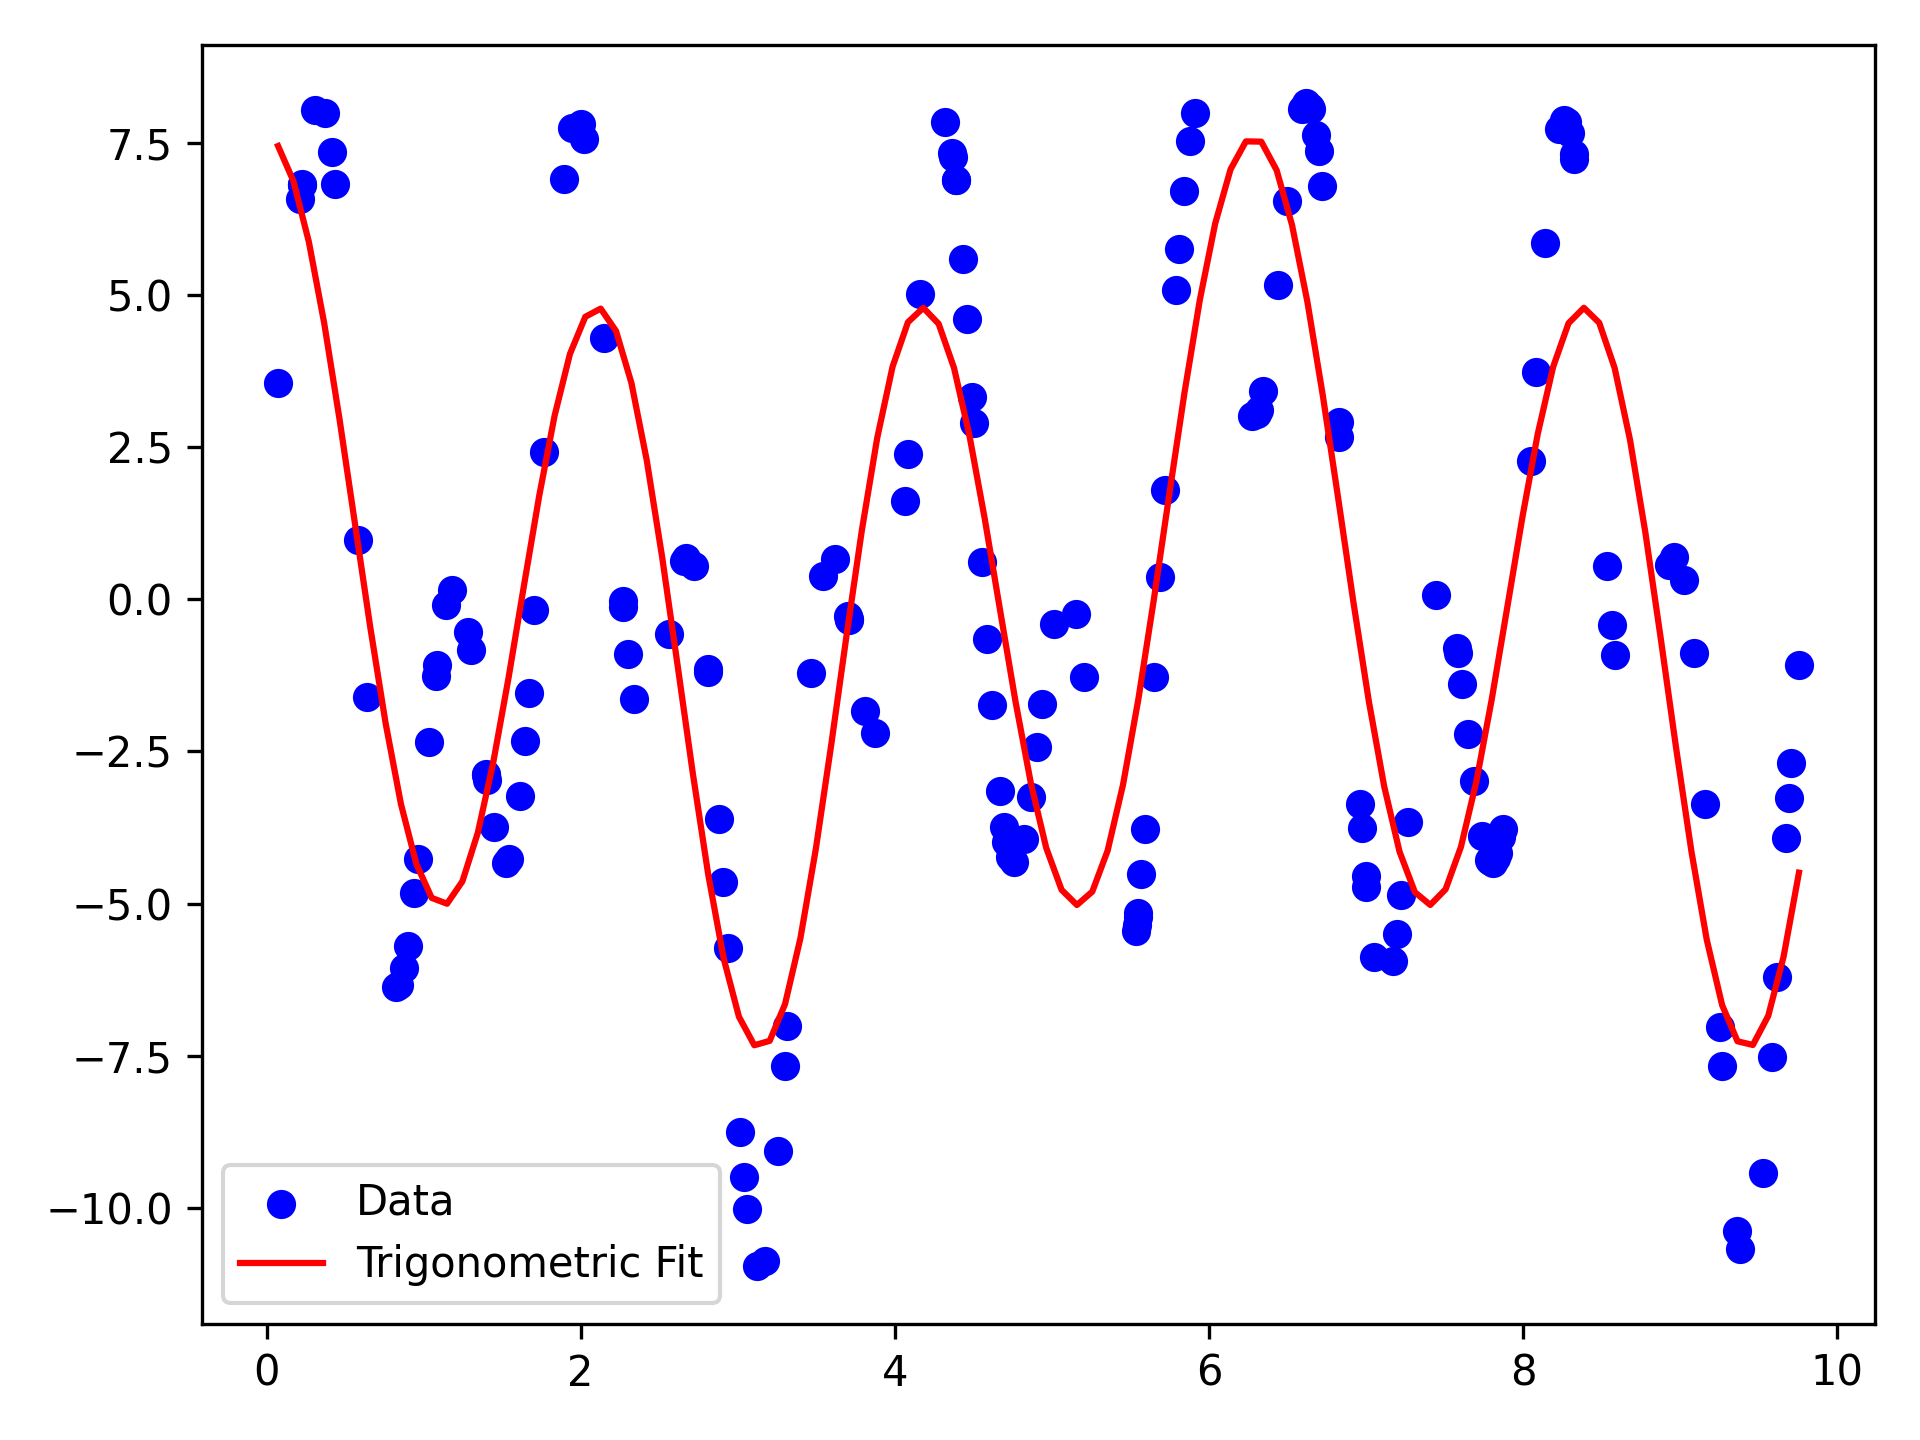
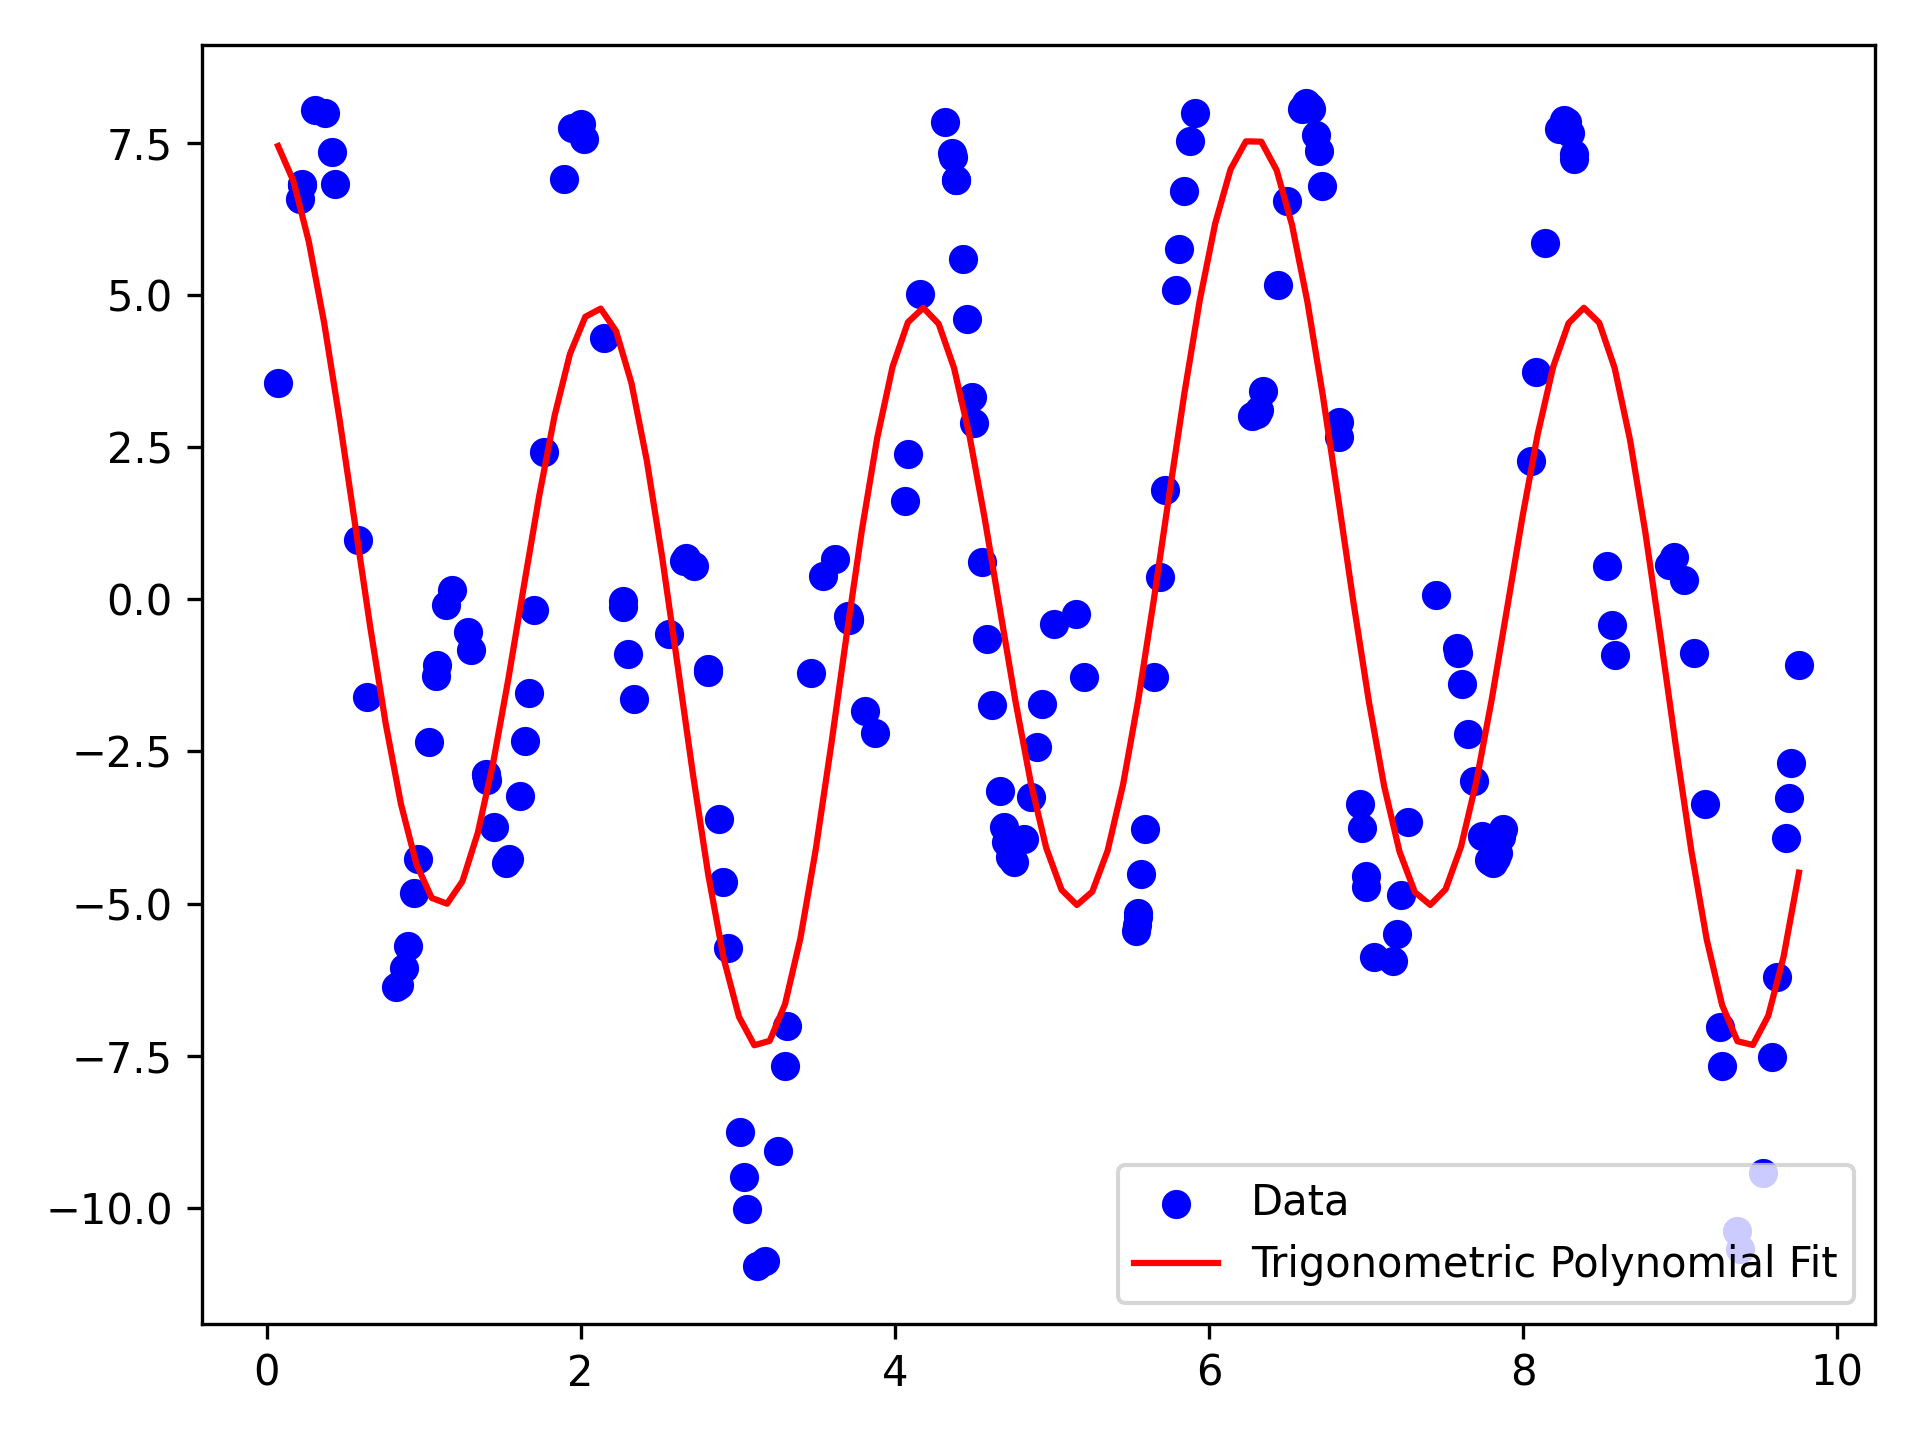
In `docs`: continue developing `fourier_polynomials.py` code snippet [skip ci]

diff --git a/docs/docs/code_snippets/scripts/fourier_polynomials.py b/docs/docs/code_snippets/scripts/fourier_polynomials.py
@@ -6,31 +6,31 @@ import numpy as np
 from sigalg.core import Index, RandomVector
 from sigalg.l2 import L2
 
-arr = np.load("data/fourier_data.npy")
+arr = np.load("data/fourier_data.npy")  # (1)!
 
 component_names = Index().from_list(["X", "Y"])
-Z = RandomVector(
+Z = RandomVector(  # (2)!
     name="Z",
     index=component_names,
 ).from_numpy(array=arr)
 
-Omega = Z.domain
+Omega = Z.domain  # (3)!
 P = Z.probability_measure
 
-X, Y = Z.components
+X, Y = Z.components  # (4)!
 
-H = L2(sample_space=Omega, probability_measure=P)
+H = L2(sample_space=Omega, probability_measure=P)  # (5)!
 
-_, u, _ = H.proj(
+_, u, _ = H.proj(  # (6)!
     rv=Y,
     subspace=[np.cos(n * X) for n in range(1, 5)],
 )
 
 x = np.linspace(X.data.min(), X.data.max(), 100)
-y = sum(u[n - 1] * np.cos(n * x) for n in range(1, 5))
+y = sum(u[n - 1] * np.cos(n * x) for n in range(1, 5))  # (7)!
 
 plt.scatter(X.data, Y.data, color="blue", label="Data")
-plt.plot(x, y, color="red", label="Trigonometric Fit")
+plt.plot(x, y, color="red", label="Trigonometric Polynomial Fit")  # (8)!
 plt.legend()
 plt.tight_layout()
 plt.show()

diff --git a/docs/docs/code_snippets/index.md b/docs/docs/code_snippets/index.md
@@ -278,7 +278,7 @@ API References: [`L2`](../api/l2.md#sigalg.l2.L2){target="_blank"}, [`SampleSpac
 
 ### Polynomial regression with $L^2$-spaces
 
-API References: [`L2`](../api/l2.md#sigalg.l2.L2){target="_blank"}, [`SampleSpace`](../api/core.md#sigalg.core.SampleSpace){target="_blank"}, [`SigmaAlgebra`](../api/core.md#sigalg.core.SigmaAlgebra){target="_blank"}, [`ProbabilityMeasure`](../api/core.md#sigalg.core.ProbabilityMeasure){target="_blank"}
+API References: [`L2`](../api/l2.md#sigalg.l2.L2){target="_blank"}, [`SampleSpace`](../api/core.md#sigalg.core.SampleSpace){target="_blank"}, [`ProbabilityMeasure`](../api/core.md#sigalg.core.ProbabilityMeasure){target="_blank"}
 
 === "polynomial_regression.py"
     ```python
@@ -294,9 +294,27 @@ API References: [`L2`](../api/l2.md#sigalg.l2.L2){target="_blank"}, [`SampleSpac
     7. Extract the coefficients from `u` and create the best-fit polynomial.
     8. Plot the data and the fitted polynomial.
 
+### Trigonometric polynomials in $L^2$-spaces
+
+API References: [`L2`](../api/l2.md#sigalg.l2.L2){target="_blank"}, [`SampleSpace`](../api/core.md#sigalg.core.SampleSpace){target="_blank"}, [`ProbabilityMeasure`](../api/core.md#sigalg.core.ProbabilityMeasure){target="_blank"}
+
+=== "fourier_polynomials.py"
+    ```python
+    --8<-- "fourier_polynomials.py"
+    ```
+
+    1. The data consists of $175$ pairs $(x,y)$ of real numbers. We want to find a trigonometric polynomial that fits the data well.
+    2. Load the data into a `RandomVector` object using the `from_numpy` method.
+    3. The sample space $\Omega$ and probability meausure $P$ are automatically created; $\Omega$ consists of the numbers $0,1,\ldots,174$, and $P$ is the uniform distribution on $\Omega$.
+    4. Extract the component random variables $X$ and $Y$ from the random vector $Z=(X,Y)$.
+    5. Create the $L^2$-space $H = L^2(\Omega, \mathcal{F}, P)$, where $\mathcal{F}$ is the default $\sigma$-algebra on $\Omega$, the power set.
+    6. Perform an orthogonal projection of $Y$ onto a subspace of trigonometric polynomials in $X$. The coefficients of the best-fit polynomial are stored in a `np.ndarray` object `u`.
+    7. Extract the coefficients from `u` and create the best-fit polynomial.
+    8. Plot the data and the fitted polynomial.
+
 
 === "Output"
-    ![Regression Plot](./scripts/polynomial_regression.png){width=50%}
+    ![Fourier Polynomials](./scripts/fourier_polynomials.png){width=50%}
 
 ## Stochastic processes
 
